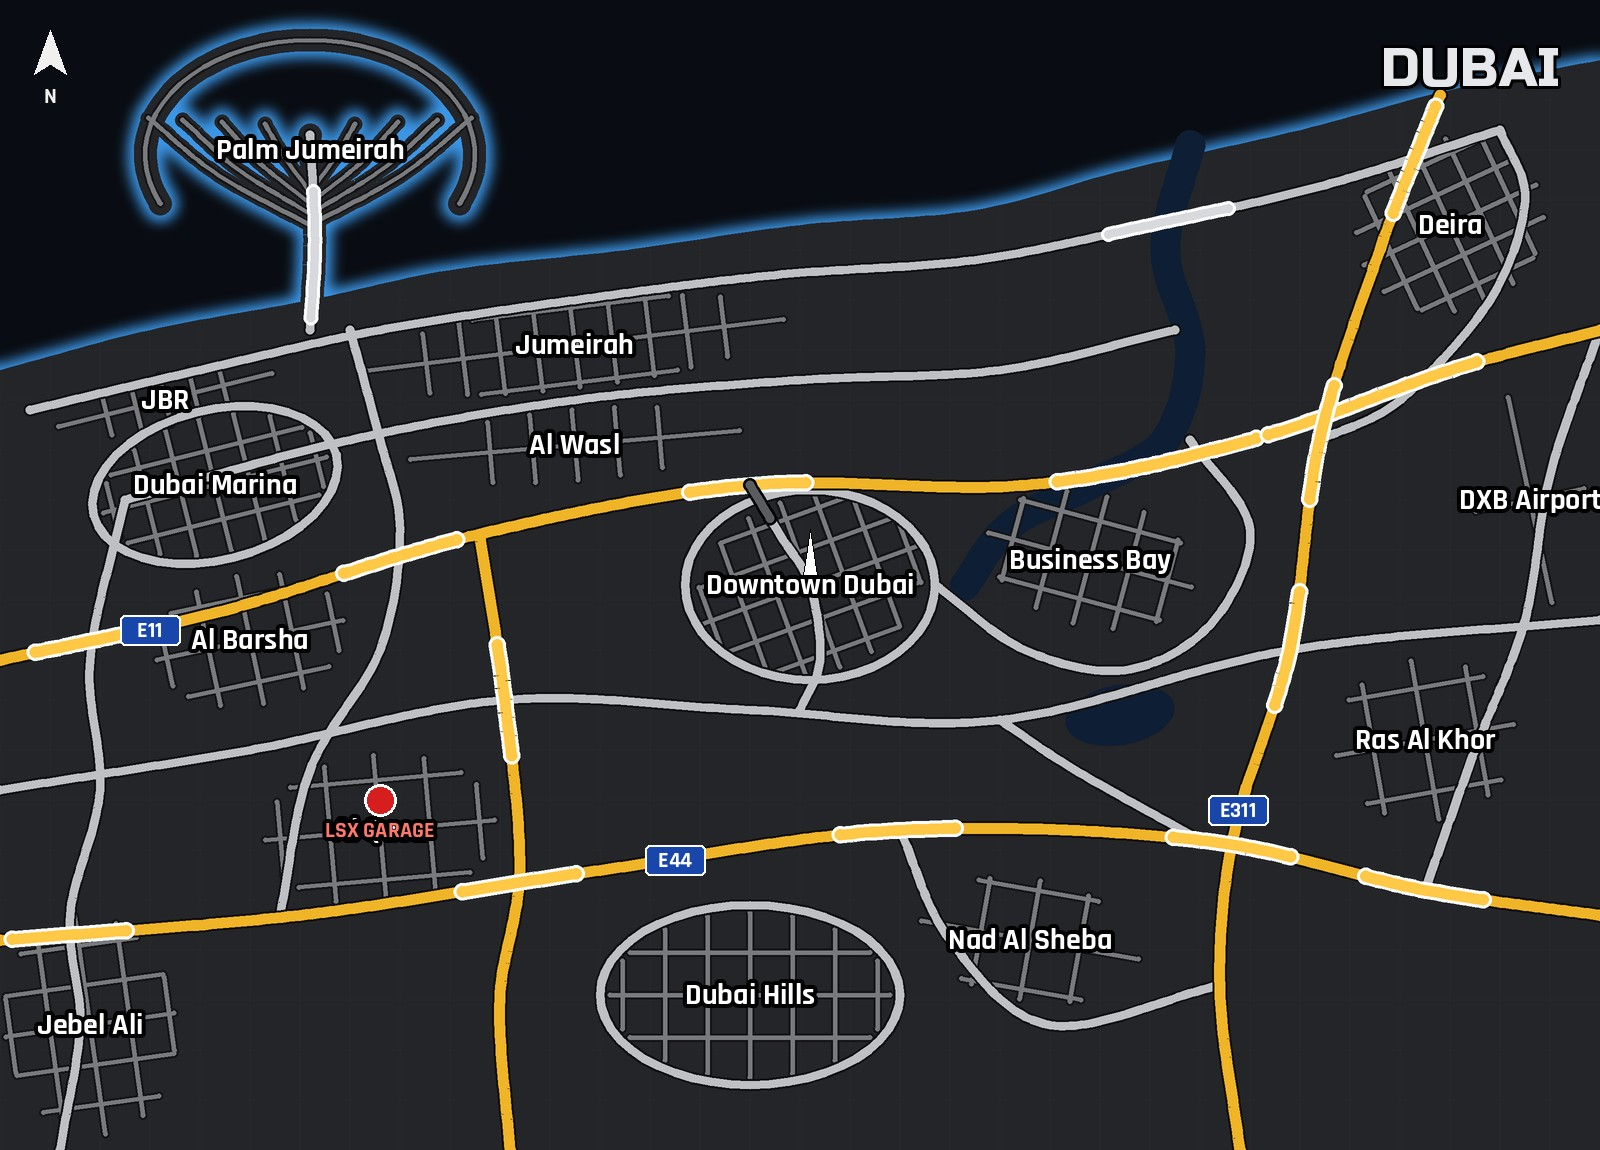
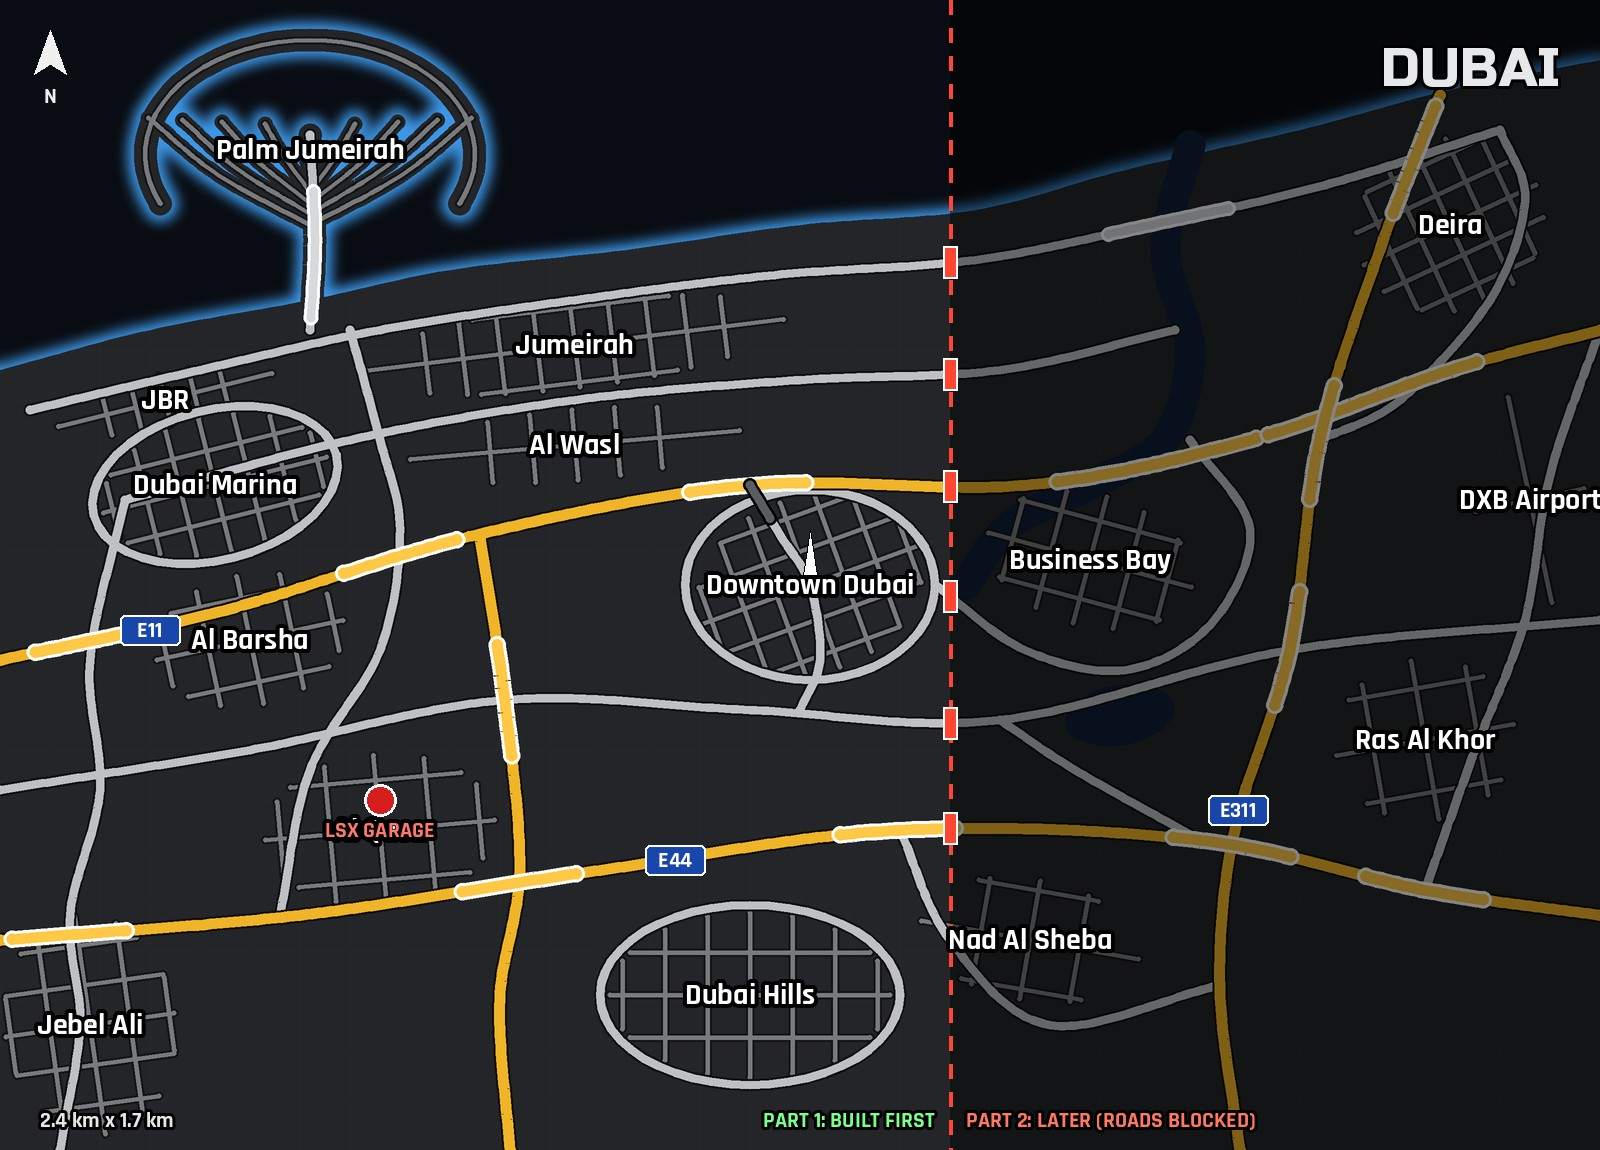
City plan v3: medium size (scale 0.75 = 2.4 x 1.7 km), two build parts with road blocks on the line
Claude-Session: https://claude.ai/code/session_01KGiRA1rg8KY8QPAVLBfUgz

diff --git a/tools/city_plan.py b/tools/city_plan.py
@@ -158,7 +158,9 @@ for r in roads:
     r["h"] = [round(terrain(x, y) + e, 2) for (x, y), e in zip(pts, extra)]
     r["deck"] = [round(e, 2) for e in extra]      # height above the ground (bridge deck) or below (underpass)
 
-plan = {"size": [W, H], "coast": COAST, "roads": roads, "water": water, "levels": levels, "terrain": [[round(terrain(x, y), 1) for x in range(0, W + 1, 50)] for y in range(0, H + 1, 50)],
+SCALE = 0.75          # plan units to game metres: the game city is 2.4 km x 1.7 km (medium size)
+PHASE1_X = 1900       # built first: everything west of this line; roads are blocked there until phase 2
+plan = {"size": [W, H], "scale": SCALE, "phase1_x": PHASE1_X, "coast": COAST, "roads": roads, "water": water, "levels": levels, "terrain": [[round(terrain(x, y), 1) for x in range(0, W + 1, 50)] for y in range(0, H + 1, 50)],
         "districts": [{"name": d[0], "x": d[1], "y": d[2]} for d in districts] + [{"name": "Palm Jumeirah", "x": PX, "y": PY + 300}],
         "garage": {"name": "LSXmotorsport", "x": 760, "y": 700}, "landmark": {"name": "Sky Tower", "x": 1620, "y": 1130}}
 os.makedirs(os.path.join(ROOT, "unity_assets", "city"), exist_ok=True)
@@ -204,6 +206,18 @@ for r in roads:        # bridges and flyovers: white side rails; underpasses: da
                 fat(d, [q[0] for q in run], ((255, 200, 70) if r["cls"] == "highway" else (215, 217, 220)) if up else (90, 92, 96), wd)
             run = []
 im = im.resize((im.width // 2, im.height // 2), Image.LANCZOS); d = ImageDraw.Draw(im)
+if not os.environ.get("PLAIN"):      # phase 2 (east): dimmed, with road blocks on the line
+    ov = Image.new("RGBA", im.size, (0, 0, 0, 0)); od = ImageDraw.Draw(ov)
+    px = PHASE1_X * S / 2
+    od.rectangle([px, 0, im.width, im.height], fill=(0, 0, 0, 120))
+    for yy in range(0, im.height, 28): od.line([(px, yy), (px, yy + 14)], fill=(255, 70, 50, 255), width=4)
+    for r in roads:
+        if r["cls"] == "street": continue
+        for (x1, y1), (x2, y2) in zip(r["pts"], r["pts"][1:]):
+            if (x1 - PHASE1_X) * (x2 - PHASE1_X) < 0:
+                yy = (H - (y1 + (y2 - y1) * (PHASE1_X - x1) / (x2 - x1))) * S / 2
+                od.rectangle([px - 7, yy - 16, px + 7, yy + 16], fill=(255, 70, 50, 255), outline=(255, 255, 255, 255), width=2)
+    im = Image.alpha_composite(im.convert("RGBA"), ov).convert("RGB"); d = ImageDraw.Draw(im)
 F = ImageFont.truetype(os.path.join(ROOT, "fonts", "rajdhani_Rajdhani-Bold.ttf"), 30)
 def label(x, y, t, font=F, fill=(255, 255, 255)):
     d.text((x * S / 2, (H - y) * S / 2), t, font=font, fill=fill, anchor="mm", stroke_width=4, stroke_fill=(0, 0, 0))
@@ -222,6 +236,10 @@ d.polygon([(cx, cy - 46), (cx + 7, cy), (cx - 7, cy)], fill=(255, 255, 255), out
 T = ImageFont.truetype(os.path.join(ROOT, "fonts", "russoone_RussoOne-Regular.ttf"), 54)
 d.text((im.width - 40, 36), "DUBAI", font=T, fill=(230, 232, 236), anchor="ra", stroke_width=3, stroke_fill=(0, 0, 0))
 d.polygon([(50, 30), (66, 74), (50, 64), (34, 74)], fill=(240, 240, 240)); d.text((50, 96), "N", font=FS, fill=(240, 240, 240), anchor="mm")
+if not os.environ.get("PLAIN"):
+    d.text((PHASE1_X * S / 2 - 16, im.height - 30), "PART 1: BUILT FIRST", font=FS, fill=(120, 255, 140), anchor="rm", stroke_width=3, stroke_fill=(0, 0, 0))
+    d.text((PHASE1_X * S / 2 + 16, im.height - 30), "PART 2: LATER (ROADS BLOCKED)", font=FS, fill=(255, 120, 100), anchor="lm", stroke_width=3, stroke_fill=(0, 0, 0))
+    d.text((40, im.height - 30), "%.1f km x %.1f km" % (W * SCALE / 1000, H * SCALE / 1000), font=FS, fill=(230, 230, 230), anchor="lm", stroke_width=3, stroke_fill=(0, 0, 0))
 out = sys.argv[1] if len(sys.argv) > 1 else os.path.join(ROOT, "unity_assets", "city", "plan_preview.jpg")
 im.save(out, quality=90)
 km = sum(sum(math.dist(a, b) for a, b in zip(r["pts"], r["pts"][1:])) for r in roads) / 1000
